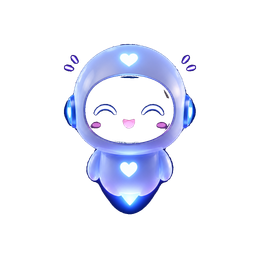
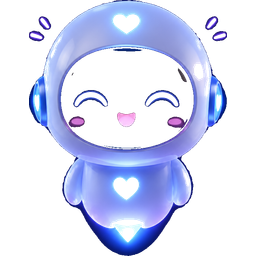
Remove opaque plates behind IIDA mascot moods.
Recut mood PNGs with real alpha and force transparent CSS so the assistant floats cleanly on dark UI.

diff --git a/web/src/app/globals.css b/web/src/app/globals.css
@@ -3808,6 +3808,8 @@ html.light .theme-toggle:hover {
   align-items: center;
   justify-content: center;
   flex-shrink: 0;
+  background: transparent !important;
+  box-shadow: none;
   filter: drop-shadow(0 6px 14px rgba(56, 189, 248, 0.35));
 }
 .iida-mascot-img {
@@ -3816,6 +3818,12 @@ html.light .theme-toggle:hover {
   object-fit: contain;
   pointer-events: none;
   user-select: none;
+  background: transparent !important;
+  border: 0;
+  box-shadow: none;
+  /* Avoid browsers painting a white image plate behind alpha PNGs */
+  mix-blend-mode: normal;
+  image-rendering: auto;
 }
 .iida-mascot-bob {
   animation: iida-bob 2.8s ease-in-out infinite;
@@ -3839,8 +3847,12 @@ html.light .theme-toggle:hover {
 }
 .iida-fab-mascot {
   padding: 0;
-  background: radial-gradient(circle at 50% 60%, rgba(14, 165, 233, 0.28), transparent 68%);
+  background: transparent;
   border-radius: 999px;
+}
+.iida-fab-mascot:not(.iida-fab-open) {
+  background: transparent !important;
+  box-shadow: none !important;
 }
 .iida-fab-open {
   background: var(--iid-panel-2);

diff --git a/web/src/lib/iida-mascot.ts b/web/src/lib/iida-mascot.ts
@@ -8,15 +8,18 @@ export type IidaMood =
   | "surprised"
   | "happy-blink";
 
+/** Cache-bust so redeployed transparent cutouts replace old opaque plates. */
+const V = "v2";
+
 export const IIDA_MOOD_SRC: Record<IidaMood, string> = {
-  happy: "/iida/moods/happy.png",
-  excited: "/iida/moods/excited.png",
-  love: "/iida/moods/love.png",
-  curious: "/iida/moods/curious.png",
-  thinking: "/iida/moods/thinking.png",
-  focused: "/iida/moods/focused.png",
-  surprised: "/iida/moods/surprised.png",
-  "happy-blink": "/iida/moods/happy-blink.png",
+  happy: `/iida/moods/happy.png?${V}`,
+  excited: `/iida/moods/excited.png?${V}`,
+  love: `/iida/moods/love.png?${V}`,
+  curious: `/iida/moods/curious.png?${V}`,
+  thinking: `/iida/moods/thinking.png?${V}`,
+  focused: `/iida/moods/focused.png?${V}`,
+  surprised: `/iida/moods/surprised.png?${V}`,
+  "happy-blink": `/iida/moods/happy-blink.png?${V}`,
 };
 
 export const IIDA_MOOD_LABEL: Record<IidaMood, string> = {
